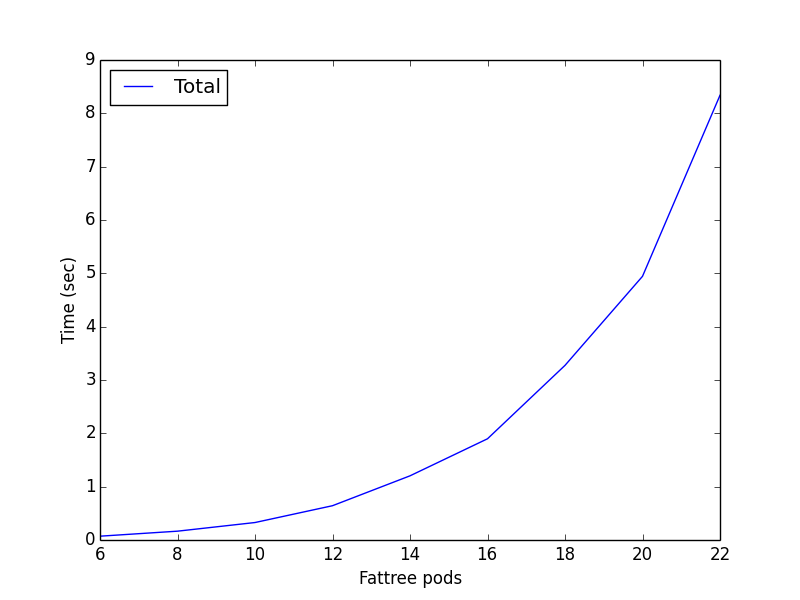
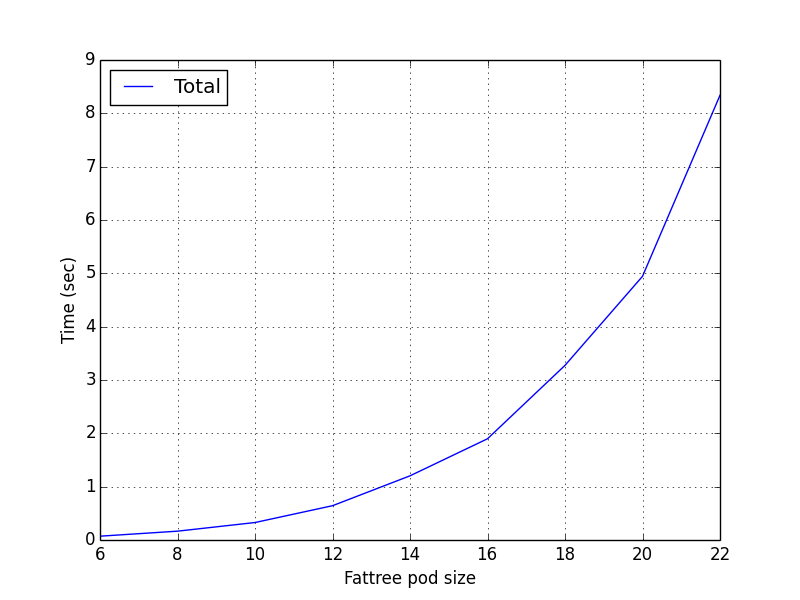
added preliminary config compression results for dc

Changed region(s): [[0.4375, 0.93, 0.5938, 0.99]]

diff --git a/data/graph.py b/data/graph.py
@@ -5,6 +5,9 @@ import matplotlib.pyplot as plt
 
 # collect stats from csv
 num_pods = []
+num_nodes = []
+sizes_raw = []
+sizes_compressed = []
 tpp_total_mean = []
 tpp_build_mean = []
 tpp_minimize_mean = []
@@ -14,10 +17,13 @@ tpp_compress_mean = []
 
 # read values from csv file
 direct = os.path.dirname(os.path.realpath(__file__))
-with open(direct + os.path.sep + 'stats.csv') as f:
+with open(direct + os.path.sep + 'stats-dc.csv') as f:
   r = csv.reader(f)
   for row in r:
     num_pods.append(row[0])
+    num_nodes.append(row[1])
+    sizes_raw.append(row[4])
+    sizes_compressed.append(row[5])
     tpp_total_mean.append(row[10])
     tpp_build_mean.append(row[13])
     tpp_minimize_mean.append(row[16])
@@ -25,8 +31,11 @@ with open(direct + os.path.sep + 'stats.csv') as f:
     tpp_gen_mean.append(row[22])
     tpp_compress_mean.append(row[25])
 
-# remove first row, and convert type
+# remove header info, and convert type
 num_pods = map(int, num_pods[2:])
+num_nodes = map(int, num_nodes[2:])
+sizes_raw = map(int, sizes_raw[2:])
+sizes_compressed = map(int, sizes_compressed[2:])
 tpp_total_mean = map(float, tpp_total_mean[2:])
 tpp_build_mean = map(float, tpp_build_mean[2:])
 tpp_minimize_mean = map(float, tpp_minimize_mean[2:])
@@ -34,17 +43,31 @@ tpp_order_mean = map(float, tpp_order_mean[2:])
 tpp_gen_mean = map(float, tpp_gen_mean[2:])
 tpp_compress_mean = map(float, tpp_compress_mean[2:])
 
+#====================================================
+# 
+# Stack plot of compilation times broken down by task
+#
+#====================================================
+
 # stack data lowest -> highest (build, minimize, order, gen, compress)
 data = (tpp_build_mean, tpp_minimize_mean, tpp_order_mean, tpp_gen_mean, tpp_compress_mean)
 foo = np.row_stack( data )
 y_stack = np.cumsum(foo, axis=0)
 
 # plot colors
-color1 = "#FFC09F"
-color2 = "#FFEE93"
-color3 = "#FCF5C7"
-color4 = "#A0CED9"
-color5 = "#ADF7B6"
+
+#color1 = "#FFC09F"
+#color2 = "#FFEE93"
+#color3 = "#FCF5C7"
+#color4 = "#A0CED9"
+#color5 = "#ADF7B6"
+
+color1 = "#828A95"
+color2 = "#CEEAF7"
+color3 = "#CCD7E4"
+color4 = "#D5C9DF"
+color5 = "#DCB8CB"
+
 
 # stacked plot showing different running times
 fig = plt.figure()
@@ -63,15 +86,38 @@ p2 = plt.Rectangle((0, 0), 1, 1, fc=color2, alpha=.7)
 p3 = plt.Rectangle((0, 0), 1, 1, fc=color3, alpha=.7)
 p4 = plt.Rectangle((0, 0), 1, 1, fc=color4, alpha=.7)
 p5 = plt.Rectangle((0, 0), 1, 1, fc=color5, alpha=.7)
-leg_boxes = [p1, p2, p3, p4, p5]
-descrs = ["Construct PG", "Minimize PG", "Find Preferences", "Generate ABGP", "Minimize ABGP"]
+leg_boxes = [p5, p4, p3, p2, p1]
+descrs = ["Minimize ABGP", "Generate ABGP", "Find Preferences", "Minimize PG", "Construct PG"]
 ax1.legend(leg_boxes, descrs, loc=2)
 fig.savefig('compilation-time-stacked.png')
 
 # plot figures 
 fig = plt.figure()
+plt.grid()
 plt.plot(num_pods, tpp_total_mean, label='Total')
 plt.xlabel('Fattree pod size')
 plt.ylabel('Time (sec)')
 plt.legend(loc=2)
 fig.savefig('compilation-time.png')
+
+#====================================================
+# 
+# Size of generated vs compressed ABGP (lines)
+#
+#====================================================
+
+num_pods1 = num_pods 
+num_pods2 = map(lambda x: x, num_pods)
+sizes_raw_per = map(lambda (size,n): size/n, zip(sizes_raw, num_nodes))
+sizes_compressed_per = map(lambda (size,n): size/n, zip(sizes_compressed, num_nodes))
+
+fig = plt.figure()
+ax1 = fig.add_subplot(111)
+ax1.bar(num_pods1, sizes_raw_per, width=.5, color=color1, alpha=1, align='center') # use log=true
+ax1.bar(num_pods2, sizes_compressed_per, width=.5, color=color3, alpha=1, align='center')
+ax1.set_xlabel('Fattree pod size')
+ax1.set_ylabel('Config Size (lines of ABGP per router)')
+leg_boxes = [p1, p3]
+descrs = ["Raw Config", "Minimized Config"]
+ax1.legend(leg_boxes, descrs, loc=2)
+fig.savefig('config-compression-dc.png')

diff --git a/paper/evaluation.tex b/paper/evaluation.tex
@@ -10,3 +10,10 @@ We have evaluated our compiler by translating and compiling real-world network c
 \label{fig:compilation-times-dc}
 \caption{Data center compilation times.}
 \end{figure}
+
+\begin{figure}[t!]
+\centering
+\includegraphics[width=\columnwidth]{figures/config-compression-dc.png}
+\label{fig:compilation-compression-dc}
+\caption{Data center config minimization.}
+\end{figure}
